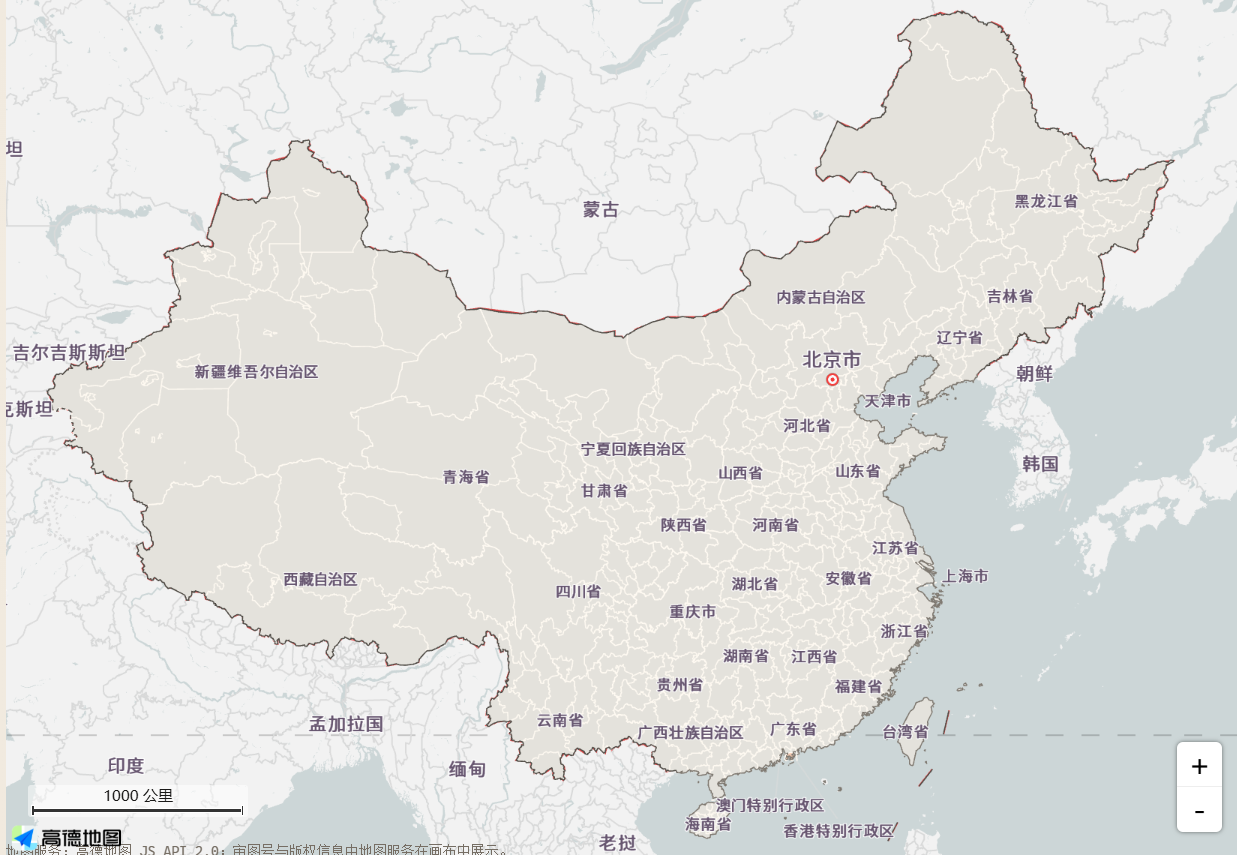
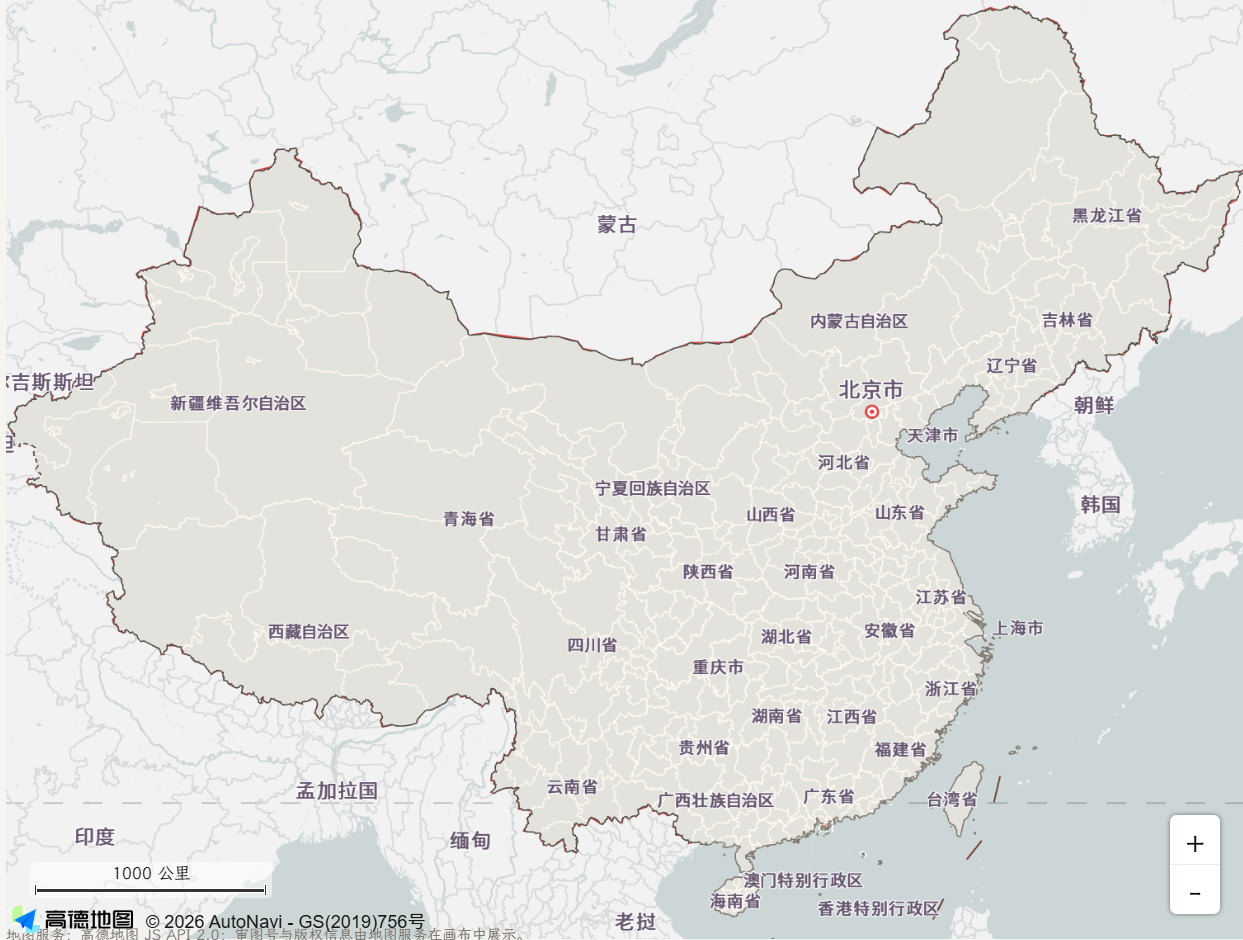
align nationwide map loading view

diff --git a/styles.css b/styles.css
@@ -132,8 +132,8 @@ nav button:hover { border-color: var(--ink); }
 .map-loading-poster { position: absolute; inset: 0; z-index: 4; width: 100%; height: 570px; overflow: hidden; background: #e7e5df; opacity: 1; transition: opacity .35s ease; }
 .map-loading-poster.complete { opacity: 0; pointer-events: none; }
 .map-loading-poster[hidden] { display: none; }
-.map-loading-poster img { width: 100%; height: 100%; object-fit: cover; object-position: center; filter: saturate(.72) contrast(.96) brightness(1.03); }
-.map-loading-poster::after { content: ""; position: absolute; inset: 0; background: rgba(247,241,231,.08); }
+.map-loading-poster img { width: 100%; height: 100%; object-fit: cover; object-position: center; }
+.map-loading-poster::after { content: ""; position: absolute; inset: 0; background: transparent; }
 .map-loading-poster span { position: absolute; right: 16px; top: 14px; z-index: 1; padding: 7px 10px; background: rgba(249,245,237,.88); color: var(--muted); opacity: 1; transition: opacity .35s ease; font: 10px var(--mono); }
 .map-loading-poster.complete span { opacity: 0; }
 .map-notice { display: flex; justify-content: space-between; gap: 20px; padding: 10px 14px; border: 1px solid #c9a770; background: #fff7df; font-size: 11px; color: #705933; }

diff --git a/index.html b/index.html
@@ -89,7 +89,7 @@
               </div>
               <div class="map-frame">
                 <div class="map-loading-poster" id="map-loading-poster" aria-hidden="true">
-                  <img src="./assets/travel/china-loading.png" alt="" />
+                  <img src="./assets/travel/china-loading.png?v=20260726f" alt="" />
                   <span>载入中</span>
                 </div>
                 <div id="amap-container" class="amap-container" aria-label="中国地级市旅行地图" hidden></div>
@@ -432,9 +432,9 @@
       <footer><span>© 2026 TRAVEL ROLLS</span><span>地图服务：高德地图 JS API 2.0</span><span>PRIVACY · NO INDEX</span></footer>
     </div>
     <div id="toast" role="status" aria-live="polite"></div>
-    <script src="./config.js?v=20260726e"></script>
-    <script src="./city-data.js?v=20260726e"></script>
-    <script src="./map.js?v=20260726e"></script>
-    <script src="./app.js?v=20260726e"></script>
+    <script src="./config.js?v=20260726f"></script>
+    <script src="./city-data.js?v=20260726f"></script>
+    <script src="./map.js?v=20260726f"></script>
+    <script src="./app.js?v=20260726f"></script>
   </body>
 </html>

diff --git a/map.js b/map.js
@@ -1,5 +1,6 @@
 (function () {
   const COLORS = ["#e4e2dc", "#f7c8ae", "#efa078", "#df7447", "#a9431e"];
+  const NATIONWIDE_VIEW = Object.freeze({ center: [104.0, 37.5], zoom: 4.45 });
   const CITY_VISITS = new Map([
     ["110000", { count: 1, tripId: "text-roll", name: "北京市", center: [116.4074, 39.9042] }],
     ["140100", { count: 1, tripId: "shanxi", name: "太原市", center: [112.5489, 37.8706] }],
@@ -237,8 +238,8 @@
 
   function createMap(AMap) {
     const map = new AMap.Map(container, {
-      center: [104.2, 35.7],
-      zoom: 4.1,
+      center: NATIONWIDE_VIEW.center,
+      zoom: NATIONWIDE_VIEW.zoom,
       viewMode: "2D",
       mapStyle: "amap://styles/whitesmoke",
       features: ["bg", "road", "point"],
@@ -360,7 +361,7 @@
     }
     if (state.initialized) {
       state.countryLayer.show();
-      state.map.setZoomAndCenter(4.1, [104.2, 35.7]);
+      state.map.setZoomAndCenter(NATIONWIDE_VIEW.zoom, NATIONWIDE_VIEW.center);
     }
     provinceSelect.value = "";
     nationwideButton.hidden = true;
